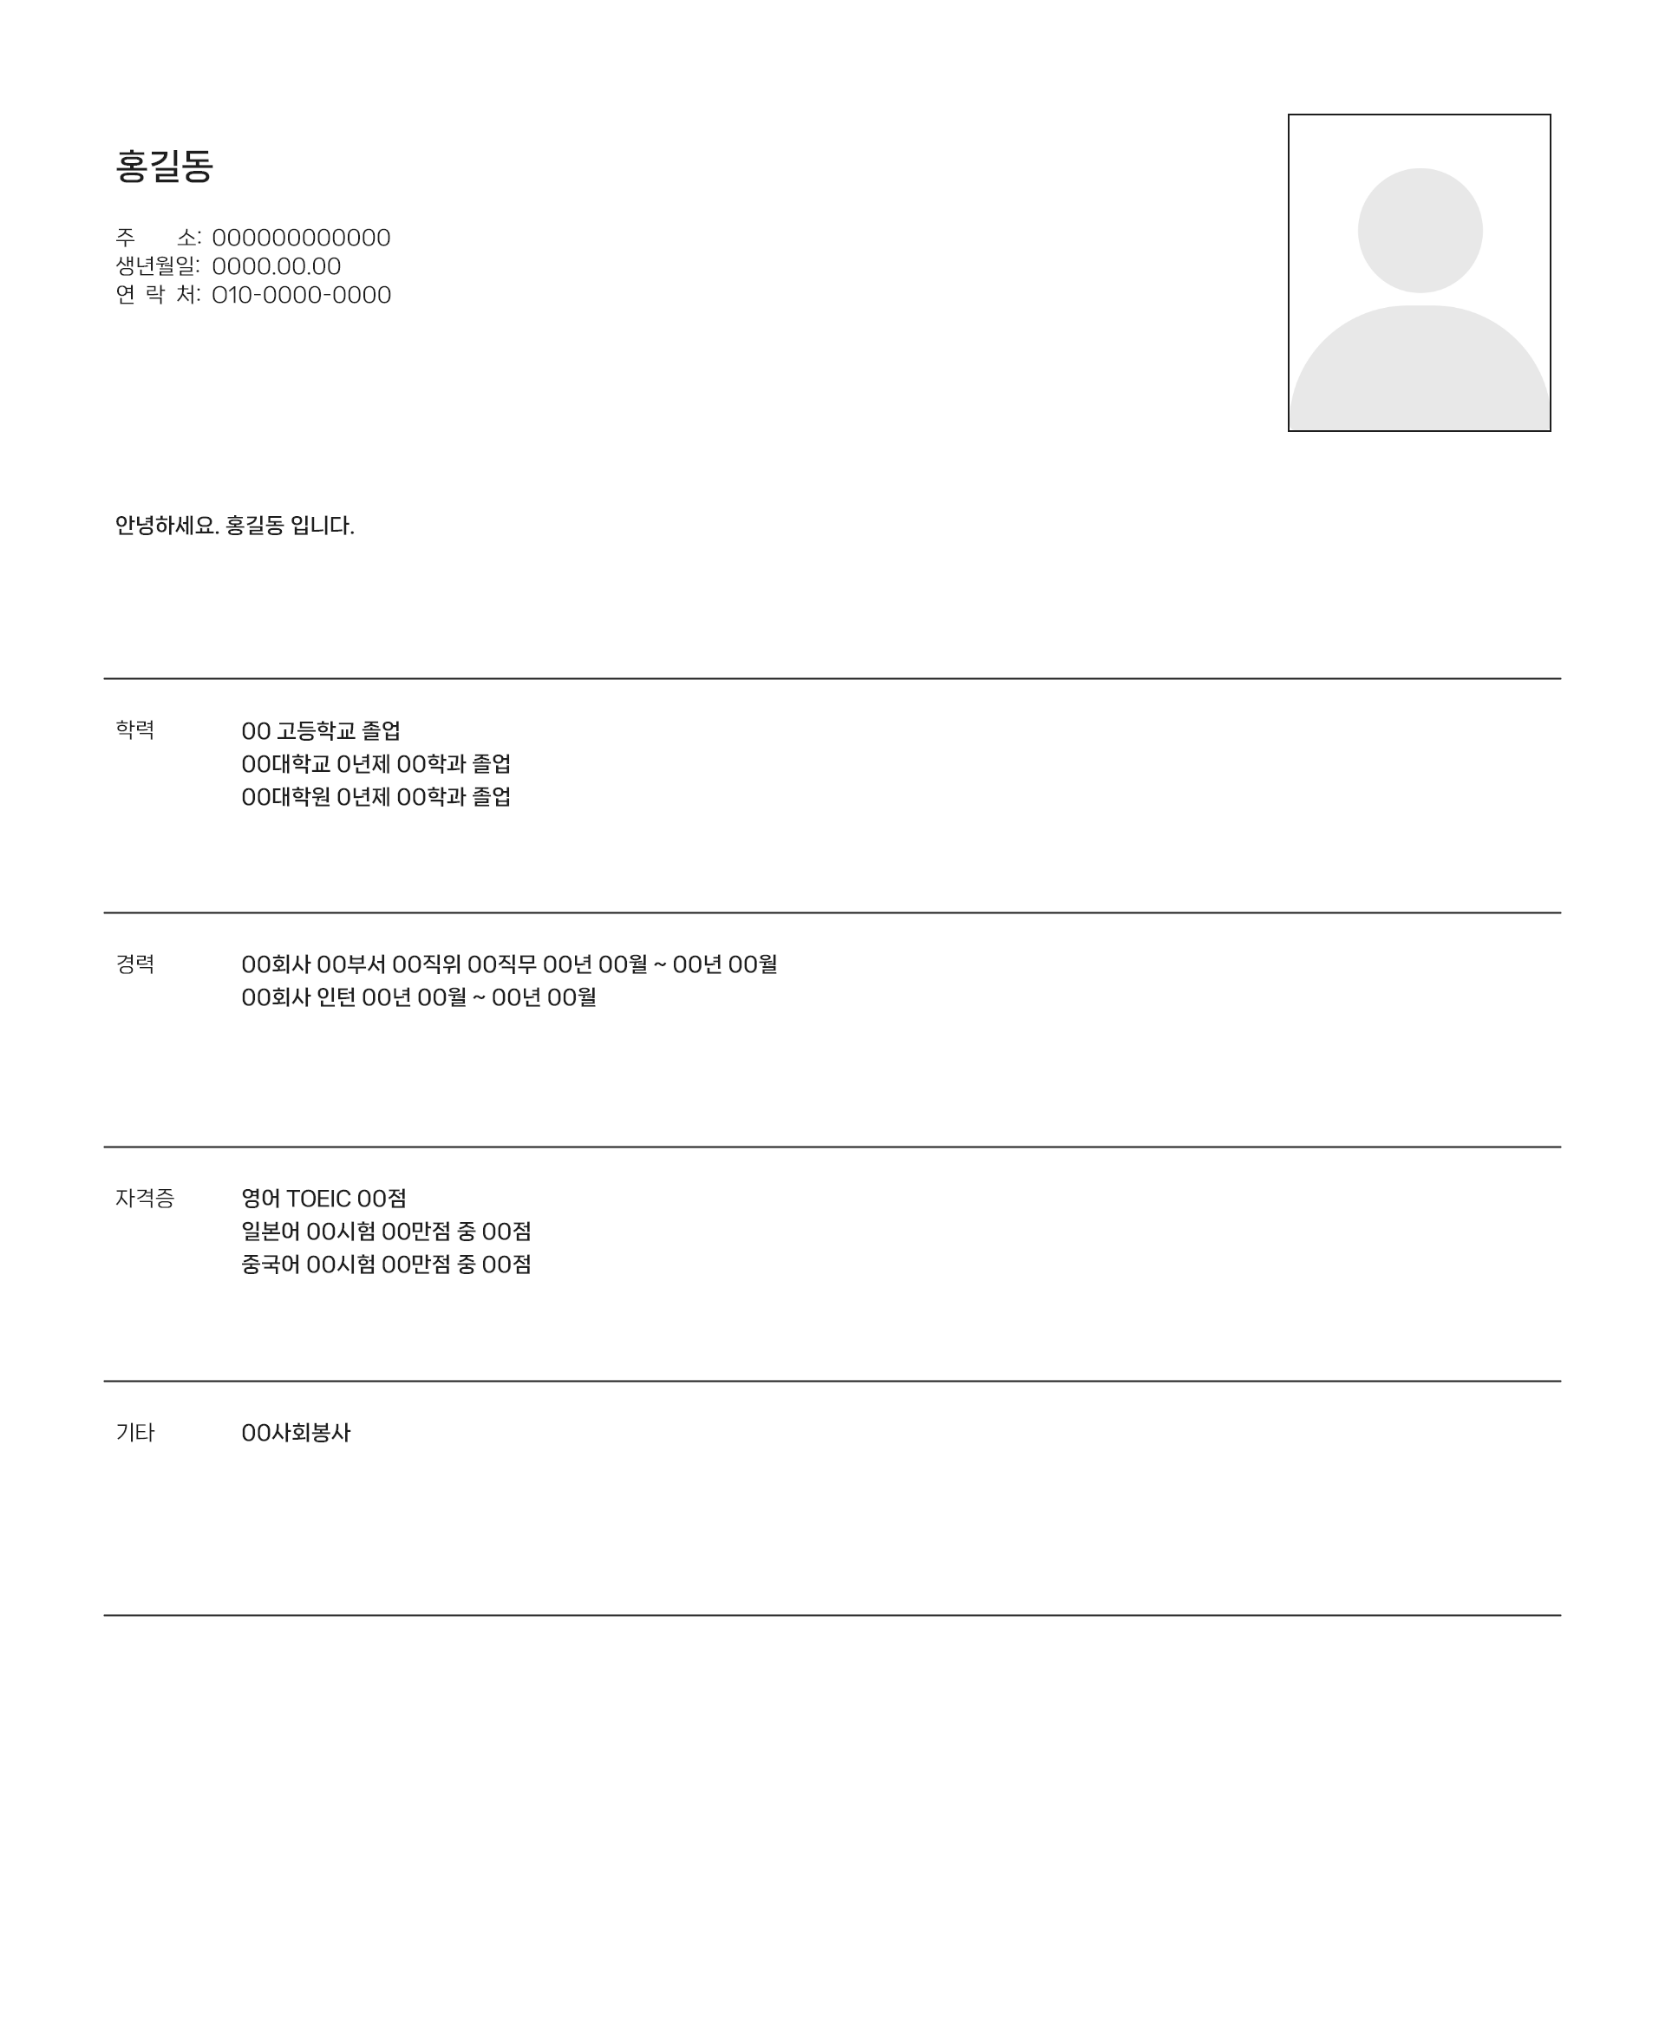
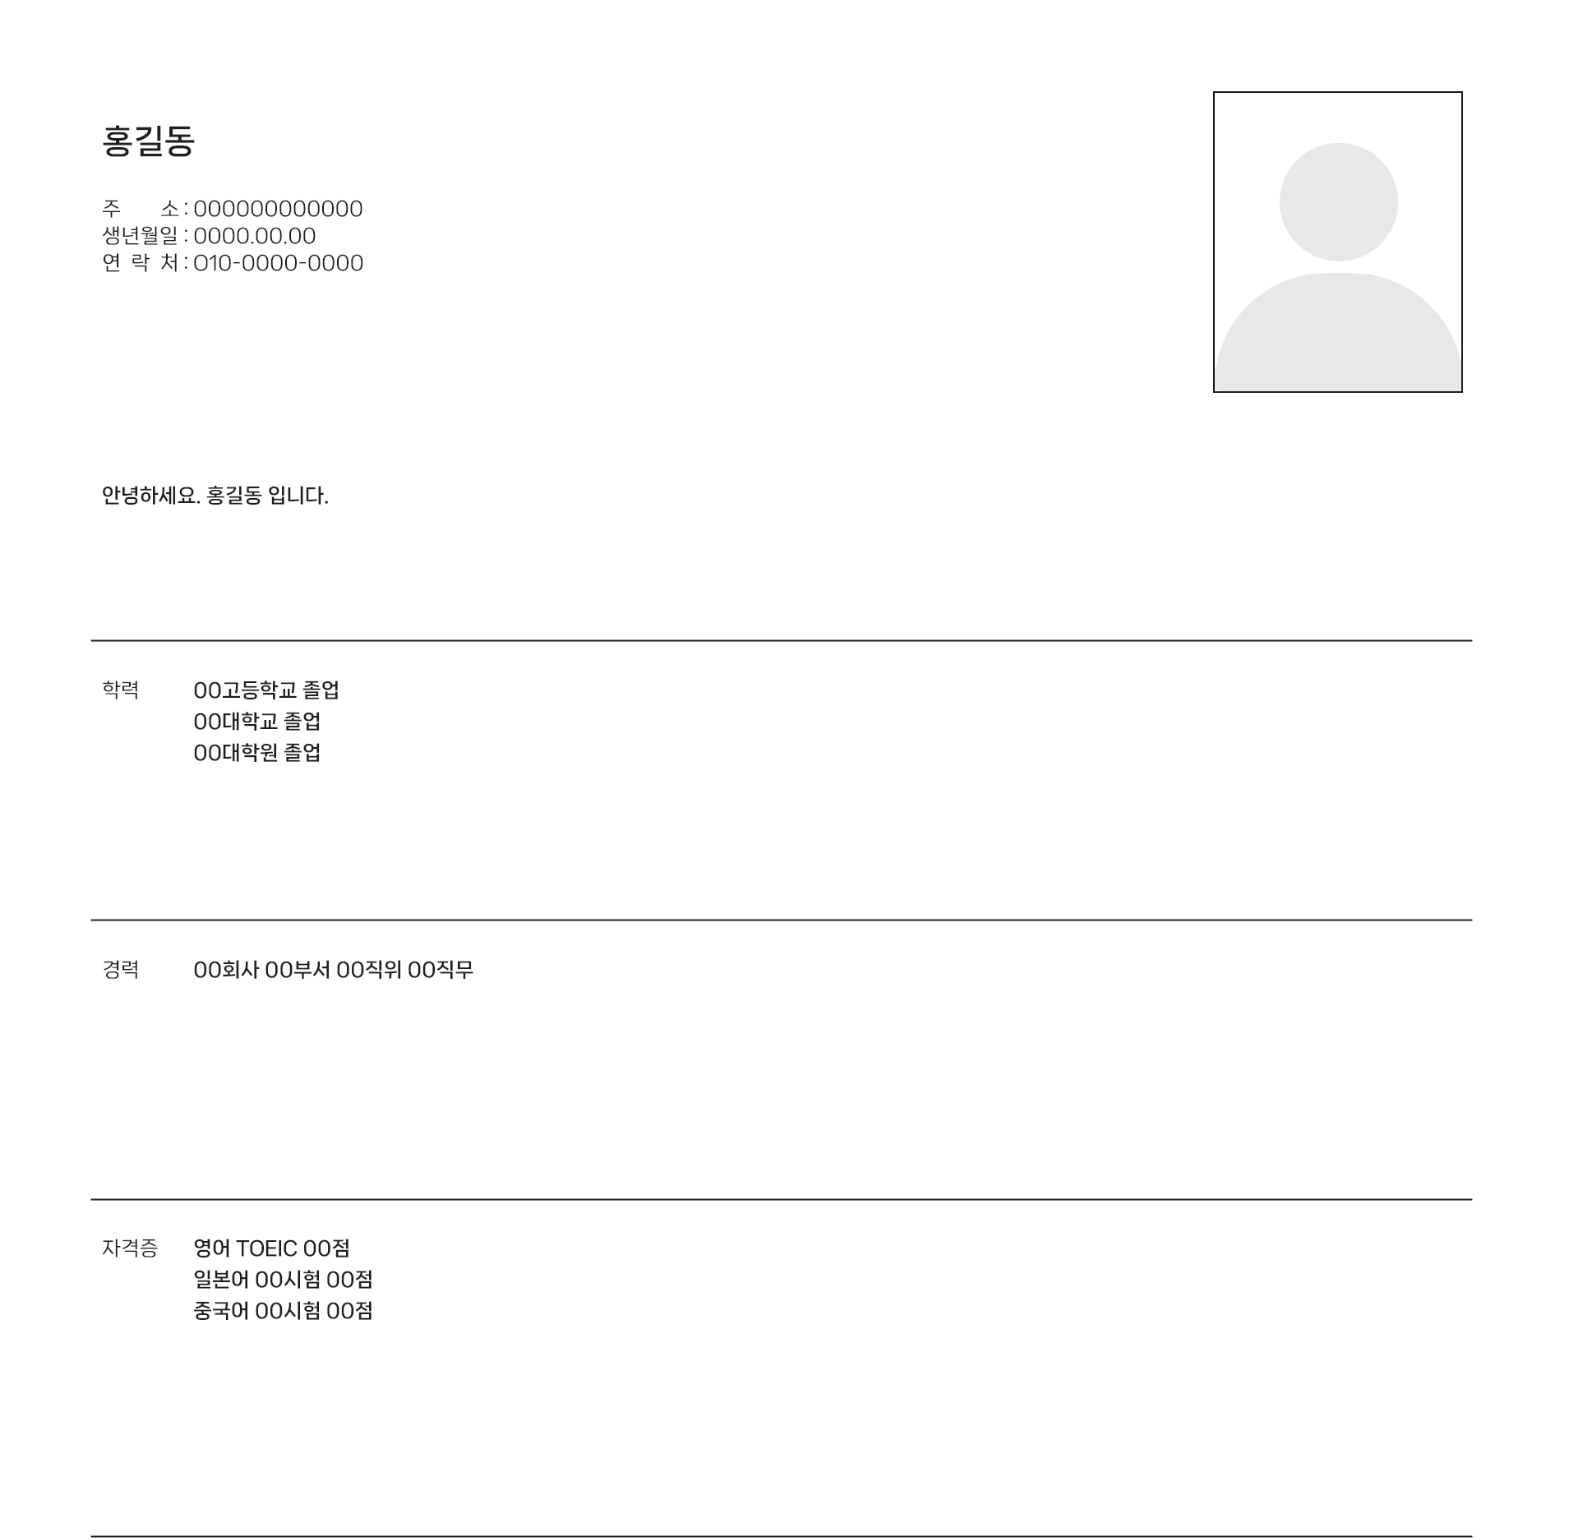
main page 수정

diff --git a/Frontend/src/components/IntroduceService/index.tsx b/Frontend/src/components/IntroduceService/index.tsx
@@ -10,11 +10,14 @@ export default function IntroduceService() {
       <div className={styles.flex}>
         <div className={styles.item_container}>
           <div className={styles.icon_container}>
-            <svg xmlns="http://www.w3.org/2000/svg" width="50.216" height="55.586" viewBox="0 0 50.216 55.586">
-              <path
-                id="패스_86"
-                d="M21.263,3.774a7.536,7.536,0,0,1,13.06,0L54.569,38.918a7.536,7.536,0,0,1-6.53,11.3H7.547a7.536,7.536,0,0,1-6.53-11.3Z"
-                transform="translate(50.216) rotate(90)"
+            <svg xmlns="http://www.w3.org/2000/svg" width="55" height="54" viewBox="0 0 55 54">
+              <ellipse
+                id="타원_56"
+                cx="27"
+                cy="27.5"
+                rx="27"
+                ry="27.5"
+                transform="translate(0 54) rotate(-90)"
                 fill="#7bc277"
               />
             </svg>

diff --git a/Frontend/src/components/ResumeExample/index.tsx b/Frontend/src/components/ResumeExample/index.tsx
@@ -9,8 +9,17 @@ export default function ResumeExample() {
       <h1 className={styles.title}>
         <span className={styles.highlight}>쉬운, 이력서</span>에서 작성하세요
       </h1>
-      <Image src={"/images/resume_example.png"} alt="이력서 예시" width={1665} height={2039} />
-      <div className={styles.bottom_container}></div>{" "}
+      <div className={styles.image_container}>
+        <Image
+          src={"/images/resume_example.png"}
+          alt="이력서 예시"
+          width={1578}
+          height={2200}
+          className={styles.image}
+        />
+      </div>
+
+      <div className={styles.bottom_container}></div>
       <Link tabIndex={2} href="/resume" className={styles.resume_link}>
         <span>이력서 작성하기</span>
         <svg xmlns="http://www.w3.org/2000/svg" width="11.142" height="20.281" viewBox="0 0 11.142 20.281">

diff --git a/Frontend/src/components/ResumeExample/ResumeExample.module.css b/Frontend/src/components/ResumeExample/ResumeExample.module.css
@@ -64,3 +64,25 @@
   background-color: #7bc277;
   opacity: 1;
 }
+
+.image_container {
+  position: relative;
+  height: 1560px;
+  margin: 102px 0px;
+
+  width: 100%;
+  overflow: hidden;
+  display: flex;
+
+  align-items: center;
+  justify-content: center;
+}
+.image {
+  position: absolute;
+  top: 0;
+  width: 100%;
+  padding: 0 171px;
+  height: 1932px;
+
+  left: 0;
+}
